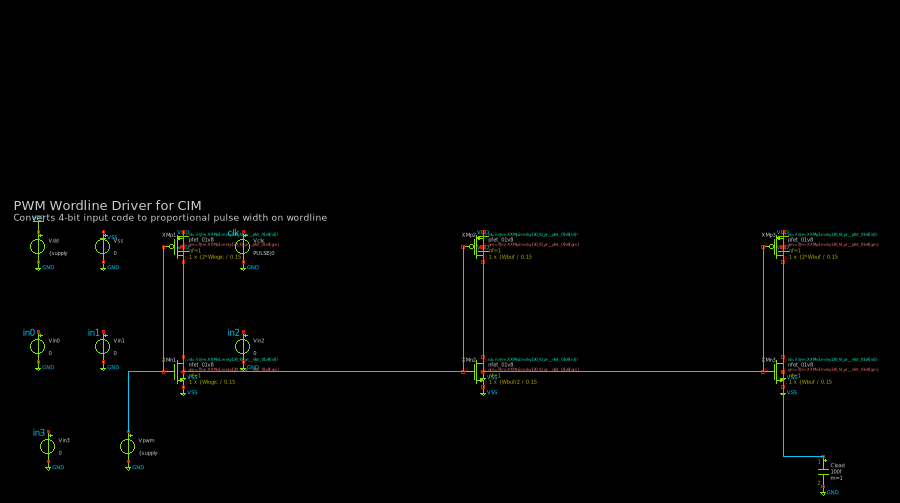
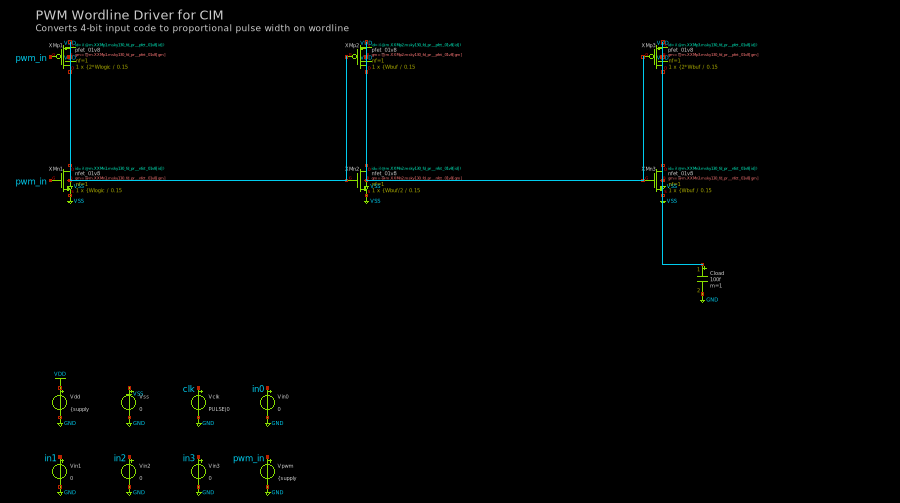
Place sources below circuit to avoid interference with overlap resolution
Sources (testbench) now placed in a compact grid below the actual
circuit components. This prevents sources from getting interleaved
with transistors during overlap resolution.

Major improvement for cim_bitcell: SRAM cell now compact with
cross-coupled pairs, access transistors, and read port tightly
grouped. Sources cleanly separated below.

Also improves cim_pwm-driver: inverter chain at top, sources at bottom.

diff --git a/src/placer.py b/src/placer.py
@@ -516,19 +516,21 @@ def place_circuit(circuit: Circuit) -> PlacedCircuit:
             max_x = max((p.x for p in result.placements.values()), default=cur_x)
             result.placements[name] = Placement(x=_snap(max_x + H_SPACING), y=_snap(MID_Y))
 
-    # === Stage 4: Place sources compactly ===
-    # Use a grid layout for sources instead of a column
+    # === Stage 4: Place sources compactly BELOW the circuit ===
     if sources:
-        src_cols = min(3, len(sources))
-        src_x_start = 50
-        src_y_start = PMOS_Y
+        # Find the bottom and left of the circuit so far
+        all_y = [p.y for p in result.placements.values()] if result.placements else [0]
+        all_x = [p.x for p in result.placements.values()] if result.placements else [300]
+        src_y_start = max(all_y) + V_SPACING + 50
+        src_x_start = min(all_x)
+        src_cols = min(4, len(sources))
         for i, name in enumerate(sources):
             if name not in result.placements:
                 row = i // src_cols
                 col = i % src_cols
                 result.placements[name] = Placement(
-                    x=_snap(src_x_start + col * 160),
-                    y=_snap(src_y_start + row * V_SPACING)
+                    x=_snap(src_x_start + col * 140),
+                    y=_snap(src_y_start + row * 140)
                 )
 
     # === Stage 5: Place subcircuit instances ===
